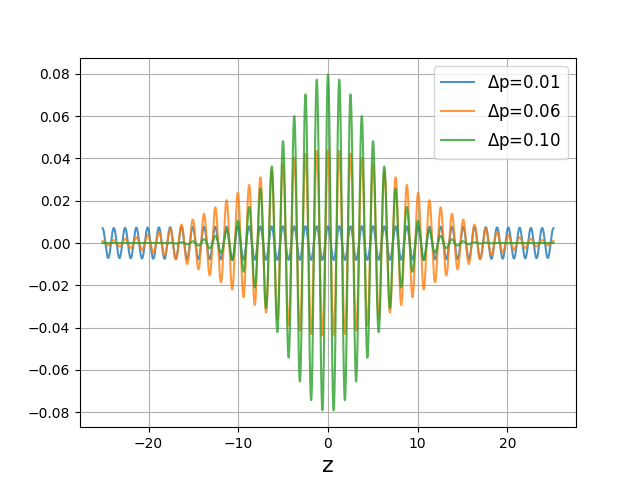
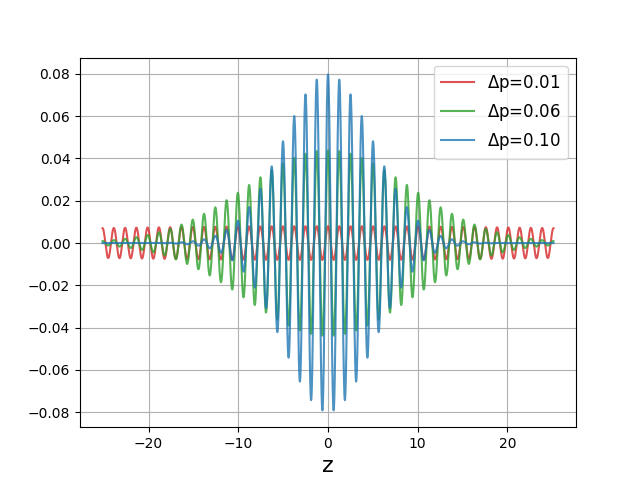
Idk actually

diff --git a/1.semester/FYS4170/sketch_QFT_ps3.py b/1.semester/FYS4170/sketch_QFT_ps3.py
@@ -1,5 +1,6 @@
 import numpy as np
 import matplotlib.pyplot as plt
+from cycler import cycler
 
 n = 20
 p0 = 5
@@ -9,6 +10,10 @@ dp = np.linspace(1e-2, 1e-1, 3)[None,:]
 
 def Psi(z, dp):
     return dp * np.sqrt(2/np.pi) * np.exp(1j*p0*z) * np.exp(-2*dp**2 * z**2)
+
+# plt.style.use('ggplot')
+
+plt.rcParams['axes.prop_cycle'] = cycler(color=['tab:red', 'tab:green', 'tab:blue'])
 
 plt.plot(z, np.real(Psi(z,dp)), alpha=0.8)
 plt.grid(True)
